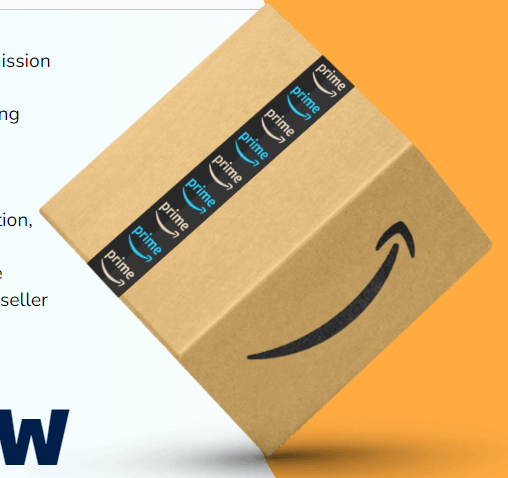
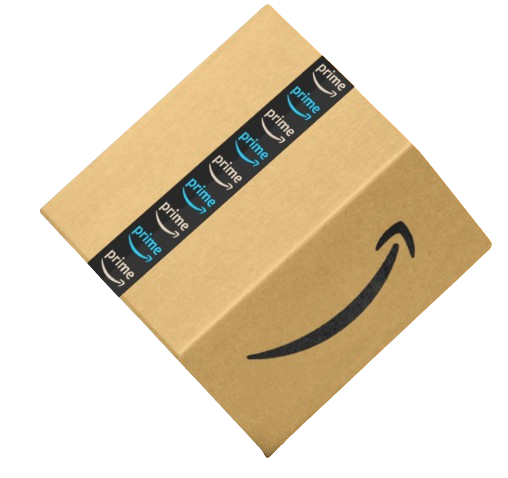
edit

diff --git a/index.html b/index.html
@@ -59,7 +59,7 @@
 							</div>
 						</section>
 						<section>
-							<a href="https://github.com/Jodi22K/Amazon-Spending-Analytics" class="image"><img src="image-removebg-preview.png" alt="" data-position="top center" /></a>
+							<a href="https://github.com/Jodi22K/Amazon-Spending-Analytics" class="image"><img src="image.png" alt="" data-position="top center" /></a>
 							<div class="content">
 								<div class="inner">
 									<h2>How Much Did I Spend Again? - Financial Expenditure Management with Python </h2>
@@ -72,7 +72,7 @@
 							</div>
 						</section>
 						<section>
-							<a href="https://docs.google.com/presentation/d/1csrjqd4CMepA6l-AJUaM2nwxssIVmJL3sMPI5zwOLDo/edit?usp=sharing" class="image"><img src="ama-removebg-preview.png" alt="" data-position="25% 25%" /></a>
+							<a href="https://docs.google.com/presentation/d/1csrjqd4CMepA6l-AJUaM2nwxssIVmJL3sMPI5zwOLDo/edit?usp=sharing" class="image"><img src="ama.png" alt="" data-position="25% 25%" /></a>
 							<div class="content">
 								<div class="inner">
 									<h2> Booming Business or Anti-trust in Action? - Legal Case Analysis </h2>
